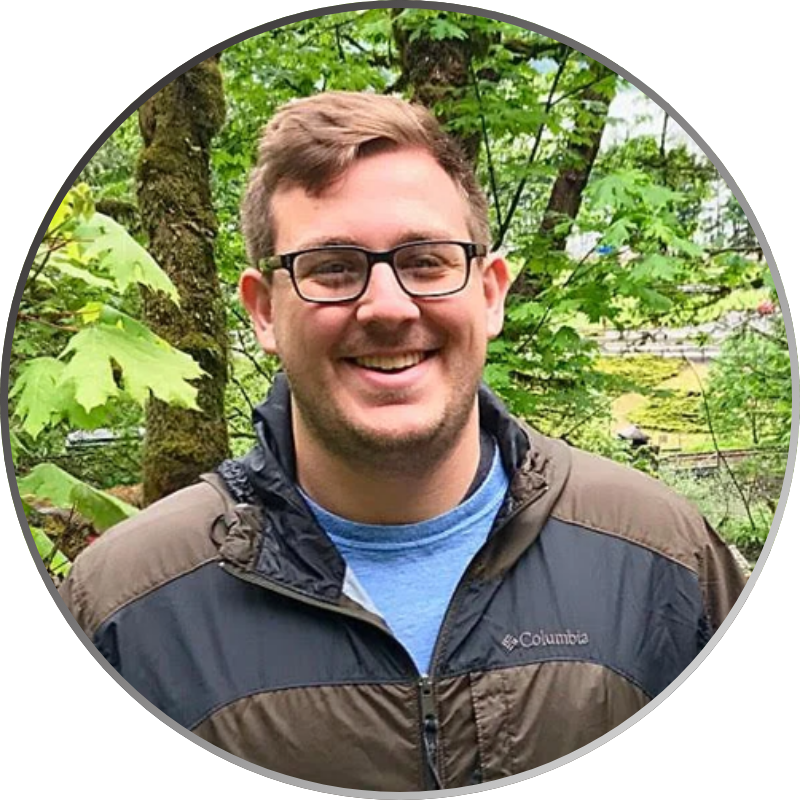
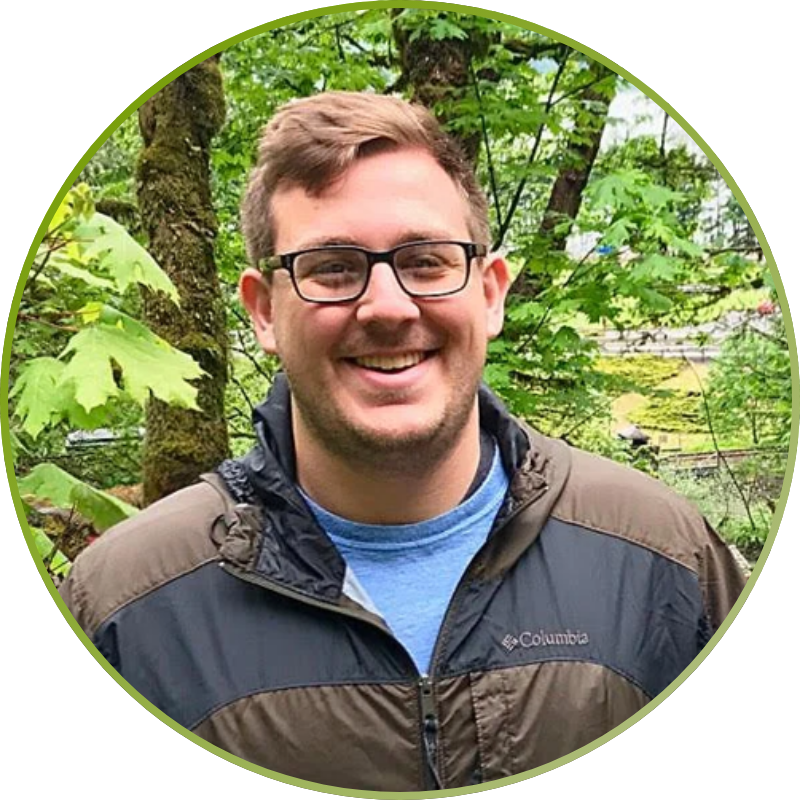
Changed border on pfp

diff --git a/docs/index.md b/docs/index.md
@@ -1,6 +1,6 @@
 # About the author
 
-![pfp](https://raw.githubusercontent.com/mrmattkennedy/TH-Medical-Charges/main/extras/pictures/pfp_with_border.png){align=left}
+![pfp](https://raw.githubusercontent.com/mrmattkennedy/TH-Medical-Charges/main/extras/pictures/pfp-with-border.png){align=left}
 
 Hi there :wave: I'm Matt! I'm a data enthusiast, who has worked as a data scientist :fontawesome-solid-microchip:, data engineer :fontawesome-solid-database:, data analyst :fontawesome-solid-chart-line:, and done just about every role regarding data. 
 
